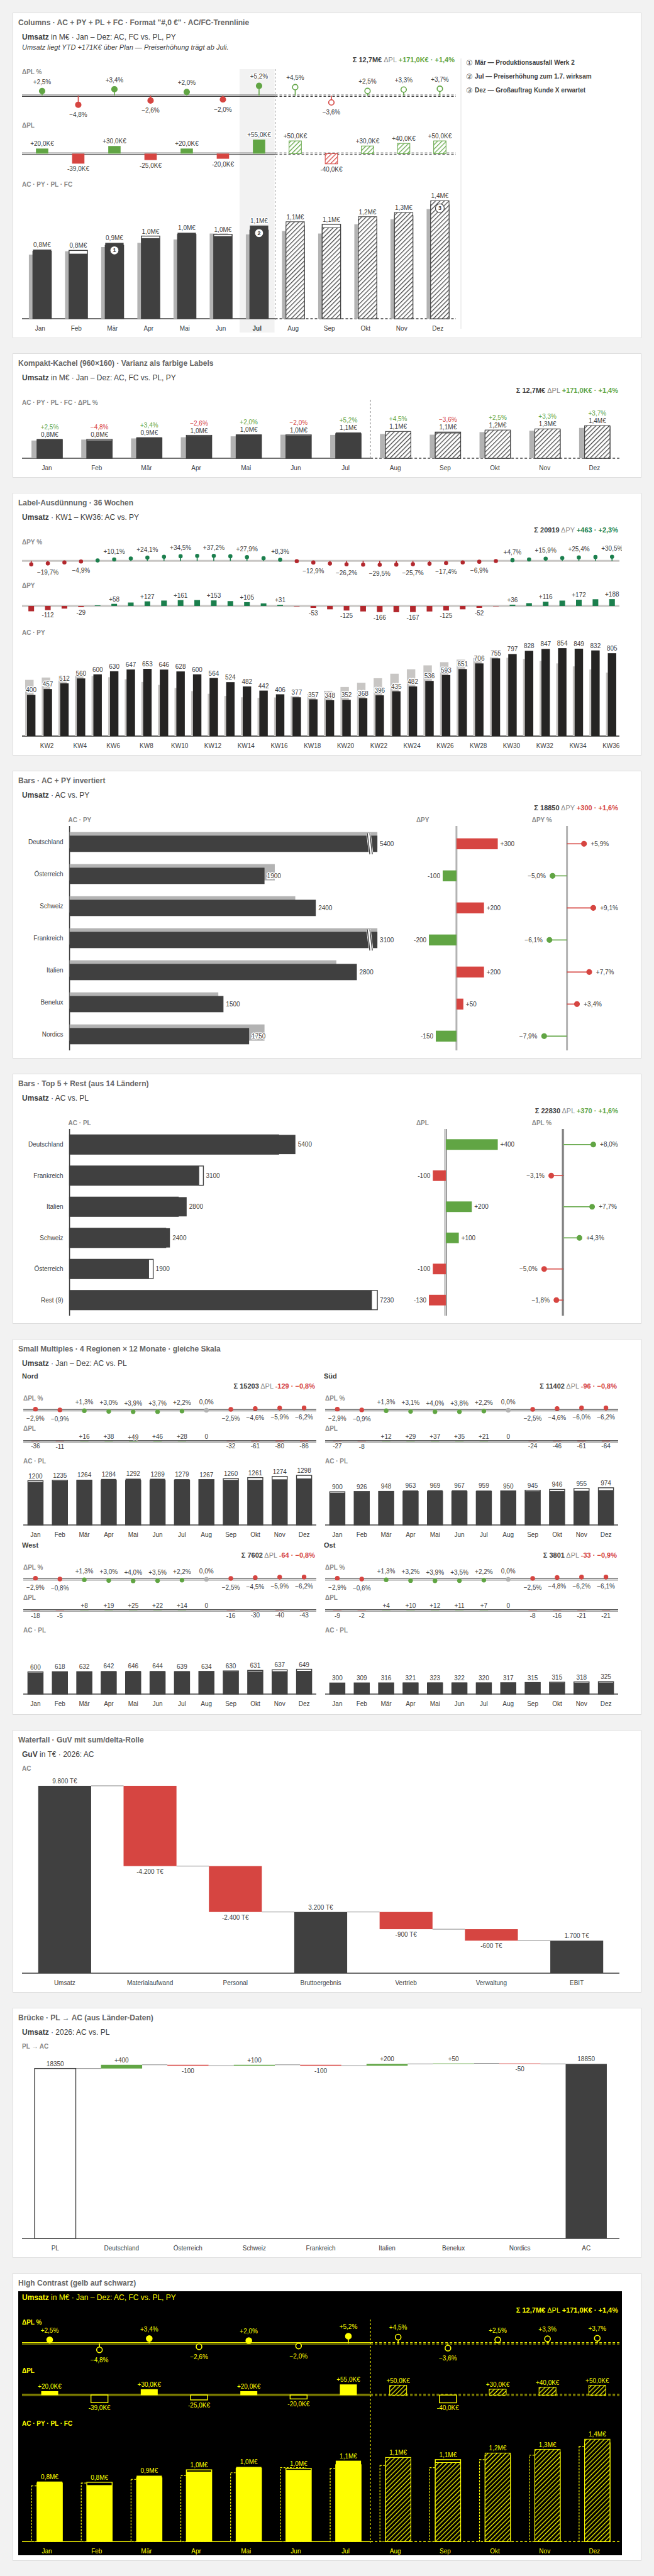
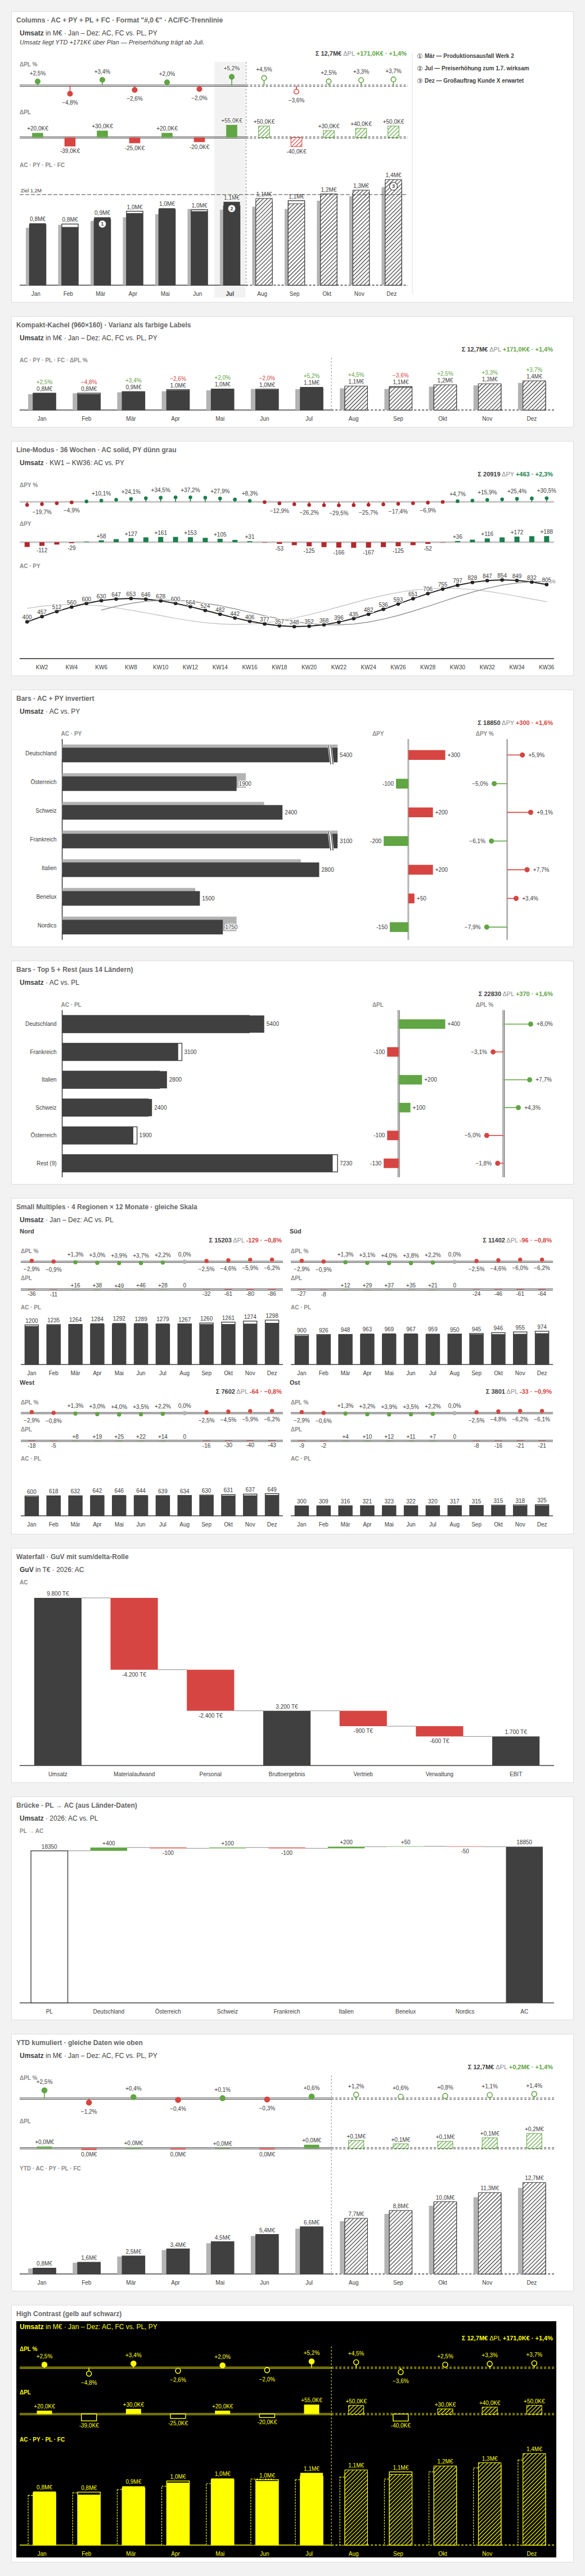
Feature: moving average overlay + docs refresh
Chart -> 'Moving average (periods)' draws a thin trailing N-period
average line over the base chart (columns and line mode) with a ØN
label at its end — smooths seasonality without a second axis. README
and screenshot updated for YTD, reference line, line mode and MA.

Claude-Session: https://claude.ai/code/session_012ZcbU1D4mMF2ajfFqsZJyU

diff --git a/ibcsInspiredChartDeck/src/visual.ts b/ibcsInspiredChartDeck/src/visual.ts
@@ -118,6 +118,8 @@ interface ChartConfig {
     refLineLabel: string;
     /** line chart mode for long time series (IBCS line notation) */
     lineMode: boolean;
+    /** moving average window (0 = off), columns/line only */
+    movingAvg: number;
 }
 
 function linearScale(d0: number, d1: number, r0: number, r1: number): Scale {
@@ -437,6 +439,7 @@ export class Visual implements IVisual {
             refLine: this.parseRefLine(),
             refLineLabel: (s.scaleCard.refLineLabel.value || "").trim(),
             lineMode,
+            movingAvg: Math.round(s.chartCard.movingAverage.value ?? 0),
             basisMode,
             basisLabel: basisMode === "plan" ? "PL" : "PY",
             showAbs: s.chartCard.showAbsoluteVariance.value && hasVar,
@@ -833,6 +836,13 @@ export class Visual implements IVisual {
             this.drawLinePaths(bg, points, (i: number) => slotPos(i) + slotW / 2, mainScale, cfg);
         }
 
+        // ------- moving average overlay (time series only)
+        if (cfg.movingAvg >= 2 && orientation === "columns") {
+            this.drawMovingAverage(bg, points, (i: number) => lineMode
+                ? slotPos(i) + slotW / 2
+                : slotPos(i) + pyShift + barW / 2, mainScale, cfg);
+        }
+
         // ------- category groups with all marks
         const marks = this.el("g", {}, this.svg);
         for (let i = 0; i < n; i++) {
@@ -1188,6 +1198,31 @@ export class Visual implements IVisual {
                 span(` · ${this.fmtPercent((sumVar / sumBasis) * 100)}`, color, true);
             }
         }
+    }
+
+    /** thin overlay line with the trailing N-period average of the base values */
+    private drawMovingAverage(parent: SVGElement, points: DataPoint[],
+        cxOf: (i: number) => number, scale: Scale, cfg: ChartConfig): void {
+        const win = cfg.movingAvg;
+        let d = "";
+        let lastX = 0, lastY = 0, any = false;
+        for (let i = win - 1; i < points.length; i++) {
+            const slice = points.slice(i - win + 1, i + 1).map(p => p.value);
+            if (slice.some(v => v == null)) { continue; }
+            const avg = (slice as number[]).reduce((a, b) => a + b, 0) / win;
+            const x = cxOf(i), y = scale(avg);
+            d += d && any ? `L${x},${y}` : `M${x},${y}`;
+            lastX = x; lastY = y; any = true;
+        }
+        if (!any) { return; }
+        this.el("path", {
+            d, fill: "none", stroke: cfg.subtle, "stroke-width": 1.5, "stroke-opacity": 0.9
+        }, parent);
+        const t = this.el("text", {
+            x: lastX + 4, y: lastY + 3, "font-size": 9, fill: cfg.subtle, "font-family": FONT,
+            stroke: cfg.paper, "stroke-width": 3, "paint-order": "stroke", "stroke-linejoin": "round"
+        }, parent);
+        t.textContent = `Ø${win}`;
     }
 
     /** IBCS line notation: AC solid (FC segments dashed), PY thin grey, PL thin dashed */

diff --git a/ibcsInspiredChartDeck/src/settings.ts b/ibcsInspiredChartDeck/src/settings.ts
@@ -127,6 +127,18 @@ export class ChartCardSettings extends FormattingSettingsCard {
         }
     });
 
+    movingAverage = new formattingSettings.NumUpDown({
+        name: "movingAverage",
+        displayName: "Moving average (periods)",
+        displayNameKey: "Chart_MovingAverage",
+        description: "Dünne Overlay-Linie mit gleitendem Durchschnitt über N Perioden (Columns/Line). 0 = aus.",
+        value: 0,
+        options: {
+            minValue: { type: 0 /* ValidatorType.Min */, value: 0 },
+            maxValue: { type: 1 /* ValidatorType.Max */, value: 24 }
+        }
+    });
+
     cumulative = new formattingSettings.ToggleSwitch({
         name: "cumulative",
         displayName: "Cumulative (YTD)",
@@ -154,6 +166,7 @@ export class ChartCardSettings extends FormattingSettingsCard {
         this.showRelativeVariance,
         this.showTotal,
         this.topN,
+        this.movingAverage,
         this.cumulative,
         this.highlight,
         this.invert

diff --git a/ibcsInspiredChartDeck/README.md b/ibcsInspiredChartDeck/README.md
@@ -35,6 +35,11 @@ in **einem** Visual löst:
 - **Theme-Farben**: optional Good/Bad und Neutraltöne aus dem Berichtsdesign übernehmen
 - **Drilldown & Drillthrough**: Datums-/Kategorien-Hierarchien per Drill-Steuerung
   bzw. Rechtsklick → Drillthrough auf Detailseiten
+- **Linien-Modus** für lange Zeitreihen: AC solide mit Punktmarkern (FC gestrichelt,
+  hohle Marker), PY dünn grau, PL dünn gestrichelt — IBCS-Liniennotation
+- **Kumuliert (YTD)**: Umschalter stellt alle Panels auf Year-to-Date-Sicht um
+- **Referenzlinie**: Ziel-/Schwellenwert als gestrichelte Linie mit Beschriftung
+- **Gleitender Durchschnitt**: Ø-N-Overlay-Linie zur Glättung von Saisonalität
 - **Small Multiples**: Grouping-Feld teilt das Chart in Kacheln pro Gruppe —
   alle mit identischer Skalierung (IBCS-Regel „gleiche Skalen")
 - **Σ-Header**: Summe + Gesamtabweichung (absolut & %) als Kopfzeile, gut/schlecht gefärbt
@@ -80,14 +85,15 @@ Im Formatbereich unter **Chart → Variance basis** umstellbar.
 ## Formatbereich
 
 - **IBCS title**: an/aus, KPI-Name, Zeitraum, Botschafts-Zeile (auto wenn leer)
-- **Chart**: Orientation (Columns/Bars/Waterfall), Variance basis (Auto/PY/PL),
+- **Chart**: Orientation (Columns/Bars/Line/Waterfall), Variance basis (Auto/PY/PL),
   Absolute/Relative variance ein-aus, Total (Σ) header, Top N (Bars),
-  Highlight categories, Invert (higher is bad)
+  Moving average, Cumulative (YTD), Highlight categories, Invert (higher is bad)
 - **IBCS colors**: AC, PY, PL-Outline, Good/Bad
 - **Data labels**: an/aus, Textgröße, Dezimalstellen, Einheiten (Auto/k/M/B)
 - **Comments**: Kommentarliste rechts an/aus
 - **Scale sync**: Skalen-Mindest-Maximum für Basis-Chart und Varianz-Panel
-  (gleiche Werte auf mehreren Instanzen = gleiche Skalen), Ausreißer-Kappung
+  (gleiche Werte auf mehreren Instanzen = gleiche Skalen), Ausreißer-Kappung,
+  Referenzlinie mit Beschriftung
 - **Category axis**: Textgröße
 
 ## Selbst bauen